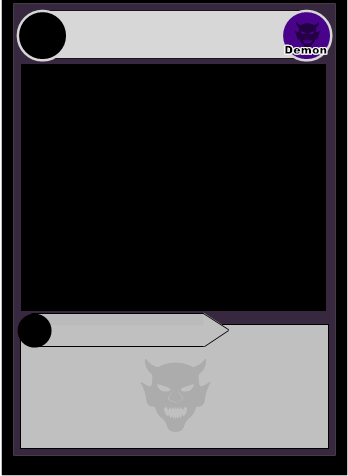
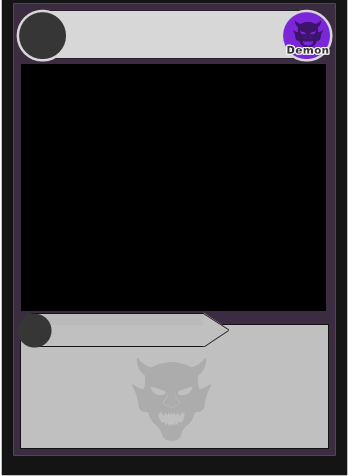
修正存檔以及存檔問題以及圖片素材修正

Changed region(s): [[0.8046, 0.0, 0.9483, 0.1471], [0.0575, 0.0, 0.2011, 0.1471], [0.0287, 0.6471, 0.1437, 0.7353]]

diff --git a/cardImgWindow.py b/cardImgWindow.py
@@ -37,14 +37,14 @@ class CardWindow:
         self.card_font = 'assets/fonts/R-PMingLiU-TW-2.ttf'
 
         # Initial state
-        self.posx = 20
-        self.posy = 60
+        self.posx = cardData.posx
+        self.posy = cardData.posy
         self.imgx = 0
         self.imgy = 0
         self.isimg = 0
         self.card_img = None
         self.effect_text = ''
-        self.scale = 0.365
+        self.scale = cardData.cscale
 
     def run(self):
         clock = pygame.time.Clock()
@@ -64,28 +64,40 @@ class CardWindow:
         # Handle image movement
         if keys[pygame.K_RIGHT]:
             self.posx += 1
+            self.update_img_size()
         if keys[pygame.K_LEFT]:
             self.posx -= 1
+            self.update_img_size()
         if keys[pygame.K_UP]:
             self.posy -= 1
+            self.update_img_size()
         if keys[pygame.K_DOWN]:
             self.posy += 1
+            self.update_img_size()
 
         # Handle image scaling
         if cardData.cardImg != None:
             if keys[pygame.K_w] and self.scale <= 2.01:
                 self.scale += 0.005
+                self.update_img_size()
+
             if keys[pygame.K_s] and self.scale >= 0.11:
                 self.scale -= 0.005
+                self.update_img_size()
     def update_screen(self):
         self.screen.fill((0, 0, 0))
         cardData.card_screen = self.screen
         # Draw card image
         if self.isimg:
             if cardData.cardImg != None:
+                self.posx = cardData.posx
+                self.posy = cardData.posy
+                self.scale = cardData.cscale
                 self.card_img = pygame.transform.smoothscale(cardData.cardImg, (
                 int(cardData.cwidth * self.scale), int(cardData.cheight * self.scale)))
                 self.screen.blit(self.card_img, (self.posx, self.posy))
+
+
 
         # Draw background
         class_eng = item_config.zh_eng[cardData.cardClass]
@@ -134,8 +146,16 @@ class CardWindow:
         self.screen.blit(text, text_rect)
 
         level_font = pygame.font.SysFont('Arial Bold', 25)
-        level_text = level_font.render('Level', True, (255, 255, 255))
-        self.screen.blit(level_text, (20, 40))
+        level_text = level_font.render('Level', True, (0, 0, 0))
+
+        offset = 1  # 外框的厚度
+        # 繪製外框（黑色）
+        for offset_x in range(-offset, offset + 1):
+            for offset_y in range(-offset, offset + 1):
+                self.screen.blit(level_font.render("Level", True, (255, 255, 255)),
+                            (20 + offset_x, 42 + offset_y))
+
+        self.screen.blit(level_text, (20, 42))
 
         pygame.display.flip()
     def process_data(self, data):
@@ -150,22 +170,45 @@ class CardWindow:
 
         for key in sorted(data.keys()):  # 確保按鍵的順序處理
             current_item = data[key]
-
+            effect = current_item.effect
+            spec_effect_text = ""
+            if effect != "其他":
+                spec_effect_text = f"【{effect}】"
             if last_item_empty and not current_item.effect_text:
-                eng_curr_effect = current_item.effect
                 # 檢查前一個條目的最後一個字符是否是逗號
                 if result[-1].endswith(','):
-                    result[-1] = result[-1][:-1] + f",【{eng_curr_effect}】"
+                    result[-1] = result[-1][:-1] + "," + spec_effect_text
                 else:
-                    result[-1] += f",【{eng_curr_effect}】"
+                    result[-1] += "," + spec_effect_text
                 last_item_empty = True
             else:
-                eng_curr_effect = current_item.effect
                 # 如果不是合併情況，則直接添加
                 symbol = ":"
-                if key == 1 and not current_item.effect_text:
+                max_line = 20
+                if (key == 1 and not current_item.effect_text) or effect == "其他":
                     symbol = ""
-                result.append(f"-【{eng_curr_effect}】{symbol} {current_item.effect_text}")
+                if len(current_item.effect_text) <= max_line:
+                    result.append(f"-{spec_effect_text}{symbol} {current_item.effect_text}")
+                else:
+
+                    text = current_item.effect_text
+                    effect_text_parts = []
+                    start = 0
+                    # 第一次切割15個字符
+                    if len(text) >= 15:
+                        effect_text_parts.append(text[start:start + 15])
+                        start += 15
+
+                    # 之後的每次切割20個字符
+                    for i in range(start, len(text), max_line):
+                        effect_text_parts.append(text[i:i + max_line])
+
+                    result.append(f"-【{effect}】{symbol} {effect_text_parts[0]}")
+                    # 如果split_list至少有兩個元素
+                    if len(effect_text_parts) >= 2:
+                        # 使用extend將split_list從第二個元素開始加入到new_list
+                        result.extend(effect_text_parts[1:])
+
                 last_item_empty = not bool(current_item.effect_text)
 
 
@@ -173,7 +216,7 @@ class CardWindow:
     def load_effect_icon(self, folder_path):
         # 檢查資料夾是否存在
         if not os.path.isdir(folder_path):
-            messagebox.showinfo("錯誤", "讀取資料失敗！")
+            messagebox.showerror("錯誤", "讀取資料失敗！")
             raise ValueError(f"The specified folder '{folder_path}' does not exist.")
 
         # 獲取資料夾中的所有圖片檔案
@@ -191,7 +234,11 @@ class CardWindow:
                 key = image_file.split(".png")[0]
                 images[key] = image
             except pygame.error as e:
-                messagebox.showinfo("錯誤", "讀取資料失敗！")
+                messagebox.showerror("錯誤", "讀取資料失敗！")
 
 
         return images
+    def update_img_size(self):
+        cardData.posy = self.posy
+        cardData.posx = self.posx
+        cardData.cscale = self.scale

diff --git a/cardData.py b/cardData.py
@@ -3,6 +3,7 @@ import pygame
 import os
 import ast
 from tkinter import messagebox
+from tkinter import filedialog
 
 power = 10
 name = ''
@@ -17,6 +18,9 @@ cardImg = None
 card_screen = None
 cwidth = 0
 cheight = 0
+cscale = 0.365
+posx = 20
+posy = 60
 class cardInfo:
     @staticmethod
     def set_card_image(file_path):
@@ -34,12 +38,19 @@ class cardInfo:
     def save_card():
         global card_screen
         try:
-            img_save_Path = './output/images/'
-            if not os.path.exists(img_save_Path):
-                os.makedirs(img_save_Path)
-            txt_save_path = './output/thsc/'
-            if not os.path.exists(txt_save_path):
-                os.makedirs(txt_save_path)
+            save_path = filedialog.askdirectory(title="選擇圖片儲存資料夾")
+            if save_path:
+                # 確保路徑以斜線結尾
+                if not save_path.endswith(os.path.sep):
+                    save_path += os.path.sep
+
+                img_save_Path = save_path + '/images/'
+                txt_save_path = save_path + '/thsc/'
+                if not os.path.exists(img_save_Path) and not os.path.exists(txt_save_path):
+                    os.makedirs(img_save_Path)
+                    os.makedirs(txt_save_path)
+            else:
+                messagebox.showerror("錯誤", "請選擇儲存資料夾")
 
             # Save the image
             pygame.image.save(card_screen, os.path.join(img_save_Path, f"{name}.png"))
@@ -56,10 +67,13 @@ class cardInfo:
                 f.write(f"effect_items : {cardInfo.effect_items_to_str(effect_items)}\n")
                 f.write(f"cwidth :{cwidth}\n")
                 f.write(f"cheight :{cheight}\n")
+                f.write(f'cscale : {cscale}\n')
+                f.write(f'posx : {posx}\n')
+                f.write(f'posy : {posy}\n')
 
             messagebox.showinfo("保存成功", "數據已成功保存！")
         except Exception as e:
-            messagebox.showinfo("保存失敗", f"發生錯誤: {str(e)}")
+            messagebox.showerror("保存失敗", f"發生錯誤: {str(e)}")
 
     @staticmethod
     def process_file(file_path):
@@ -70,10 +84,10 @@ class cardInfo:
             except UnicodeDecodeError:
                 messagebox.showinfo("錯誤", "無法使用UTF-8編碼讀取文件，請確認文件是否為文本文件或使用其他編碼。。")
         else:
-            messagebox.showinfo("錯誤", "你選擇的文件不是THSC格式。")
+            messagebox.showerror("錯誤", "你選擇的文件不是THSC格式。")
     @staticmethod
     def read_data_from_file(file):
-        global name, power, level, card_type, feature, cardClass, imgSrc, effect_items, cwidth, cheight
+        global name, power, level, card_type, feature, cardClass, imgSrc, effect_items, cwidth, cheight, cscale, posy, posx
         for line in file:
             line = line.strip()
             if ':' in line:
@@ -81,7 +95,6 @@ class cardInfo:
                 key = key.strip()
                 value = value.strip()
 
-                # 根據鍵名將值分配給對應的變數
                 if key == "name":
                     name = value
                 elif key == "power":
@@ -104,8 +117,14 @@ class cardInfo:
                     cwidth = float(value)
                 elif key == "cheight":
                     cheight = float(value)
+                elif key == "cscale":
+                    cscale = float(value)
+                elif key == "posy":
+                    posy = float(value)
+                elif key == "posx":
+                    posx = float(value)
                 else:
-                    messagebox.showinfo("錯誤", f"未識別的鍵: {key}")
+                    messagebox.showerror("錯誤", f"未識別的鍵: {key}")
 
     @staticmethod
     def effect_items_to_str(effect_items):

diff --git a/cardmaker.py b/cardmaker.py
@@ -9,6 +9,7 @@ from tkinter import messagebox
 import ComboboxTip as cbTip
 import cardData
 import cardImgWindow
+import os
 class OperateWindows():
     def __init__(self, master):
         self.master = master
@@ -177,16 +178,27 @@ class OperateWindows():
         if cardData.name != "" and not any(char in disallowed_chars for char in cardData.name):
             cardData.cardInfo.save_card()
         else:
-            messagebox.showinfo("錯誤", "不可為空值，不可出現以下符號(@#$%^&*()+=[]{}|;:,.<>?)")
+            messagebox.showerror("錯誤", "不可為空值，不可出現以下符號(@#$%^&*()+=[]{}|;:,.<>?)")
     def select_img(self):
         try:
             file_path = filedialog.askopenfilename()
-            cardData.imgSrc = file_path
-            cardData.cardInfo.set_card_image(file_path)
-            cardData.isimg = True
+            # 獲取副檔名並轉換為小寫以便比較
+            file_extension = os.path.splitext(file_path)[1].lower()
+
+            # 常見的圖片副檔名
+            image_extensions = ('.jpg', '.jpeg', '.png', '.gif', '.bmp', '.tiff', '.tif', '.webp')
+
+            if file_extension in image_extensions:
+                cardData.imgSrc = file_path
+                cardData.cardInfo.set_card_image(file_path)
+                cardData.isimg = True
+            else:
+                messagebox.showerror("存取圖片失敗", "發生錯誤: 選取的資料不是圖片檔案" )
+
+
         except Exception as e:
             cardData.isimg = False
-            messagebox.showinfo("存取圖片失敗", "發生錯誤: " + str(e))
+            messagebox.showerror("存取圖片失敗", "發生錯誤: " + str(e))
     def select_thsc(self):
         try:
             # 打開文件選擇對話框
@@ -207,7 +219,7 @@ class OperateWindows():
                 cardData.cardInfo.process_file(file_path)
                 self.set_card_value()
         except Exception as e:
-            messagebox.showinfo("卡片效果讀取錯誤", "發生錯誤 :" + str(e))
+            messagebox.showerror("卡片效果讀取錯誤", "發生錯誤 :" + str(e))
     def get_name(self, event):
         value = event.widget.get()
         try:

diff --git a/item_config.py b/item_config.py
@@ -8,7 +8,7 @@ basic_ablities_selector_items = ['守護', '突破', '吸血', '必殺', '隱身
                                  '束縛', '無敵', '高注目', '強制防禦', '攻擊禁止', '防禦禁止',
                                  '狂戰士', '協調']
 spec_abilites_selector_items = ['死者復甦', '超強化', '倒數', '命運抉擇', '魔力連鎖',
-                                '永久', '遺言', '戰技', '解放', '共鳴', '永久']
+                                '遺言', '戰技', '解放', '共鳴', '永久', '其他']
 ablities_des_dict = {
   "能力": "能力描述",
   "守護": "回合結束時可以將此從者轉換成【休眠】狀態，此卡在敵方回合敵方玩家發動攻擊時，若此卡為【休眠】狀態，必須先已此卡為攻擊目標。",
@@ -44,7 +44,8 @@ ablities_des_dict = {
   "命運抉擇": "由以下的複數能力中選擇一個觸發。",
   "魔力連鎖": "依照墓地裡的技能數量，來觸發效果。",
   "協調": "選擇一張我方的從者或是場地卡，與手牌的相同種類且相同等級的卡片進行交換。",
-  "永久": "只要這名從者在主戰場上，效果就會持續存在，直到此從者離開主戰場"
+  "永久": "只要這名從者在主戰場上，效果就會持續存在，直到此從者離開主戰場",
+  "其他":"自行設定"
 }
 zh_eng = {
 '中立': 'Neutral',
@@ -91,5 +92,7 @@ zh_eng = {
 "超強化": "Supercharge",
 "戰技": "Technique",
 "不屈": "Unyielding",
-"永久": "permanent"
+"永久": "permanent",
+"其他" : "Others"
+
 }

diff --git a/README.md b/README.md
@@ -1,10 +1,37 @@
-# TCG_Card_Maker
-A TCG Card Maker based on python.
 
-A easy tool to make your own TCG card. Using pygame and tkinter to make this tool.
+# MY_TCG_Card_Maker (自製TCG卡片生成器)
 
-you can get exe and detailed on : https://jingshing.itch.io/tcg-card-maker
 
-一個TCG卡牌的製作器。之後想做一個卡牌遊戲，所以超前部屬了，如果有喜歡的歡迎拿去用。也很歡迎和我介紹你所完成的作品。
+## Introduction
 
-可以在這拿到我打包好的版本：https://jingshing.itch.io/tcg-card-maker
+自製的TCG遊戲的卡片生成器。
+
+遊戲規則請參考:路徑
+
+本工具允許使用者可以創造、存檔、讀取所設計的卡片。
+
+
+
+## Requirements
+
+- python 3.10
+- pygame 2.5.2
+- tkinter 3.1.2
+
+## How to Use
+
+- 執行cardmaker.py
+- 依照以下圖片所示
+- 圖片
+- 1.輸入卡片名稱
+- 2.選擇卡片戰力(註:若非從者卡則不需選擇)
+- 3.選擇等級
+- 4.輸入卡片特徵(最多2種)
+- 5.選擇卡片種類
+- 6.選擇卡片職業
+- 7.新增卡片效果(最多4種)
+- 8.儲存卡片圖片(.png)以及卡片資料(.thsc)
+- 9.選擇卡片的圖片
+- 10.讀取舊檔(.thsc)
+
+
